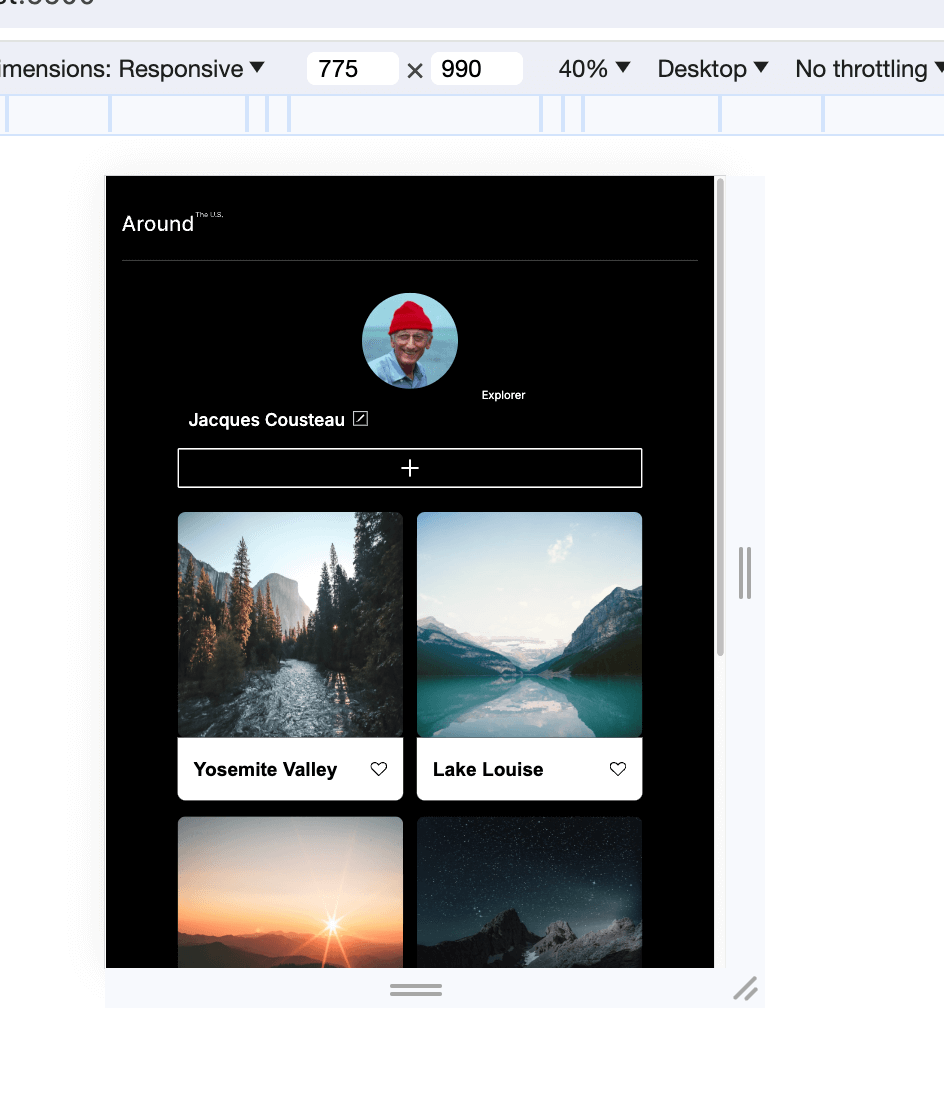
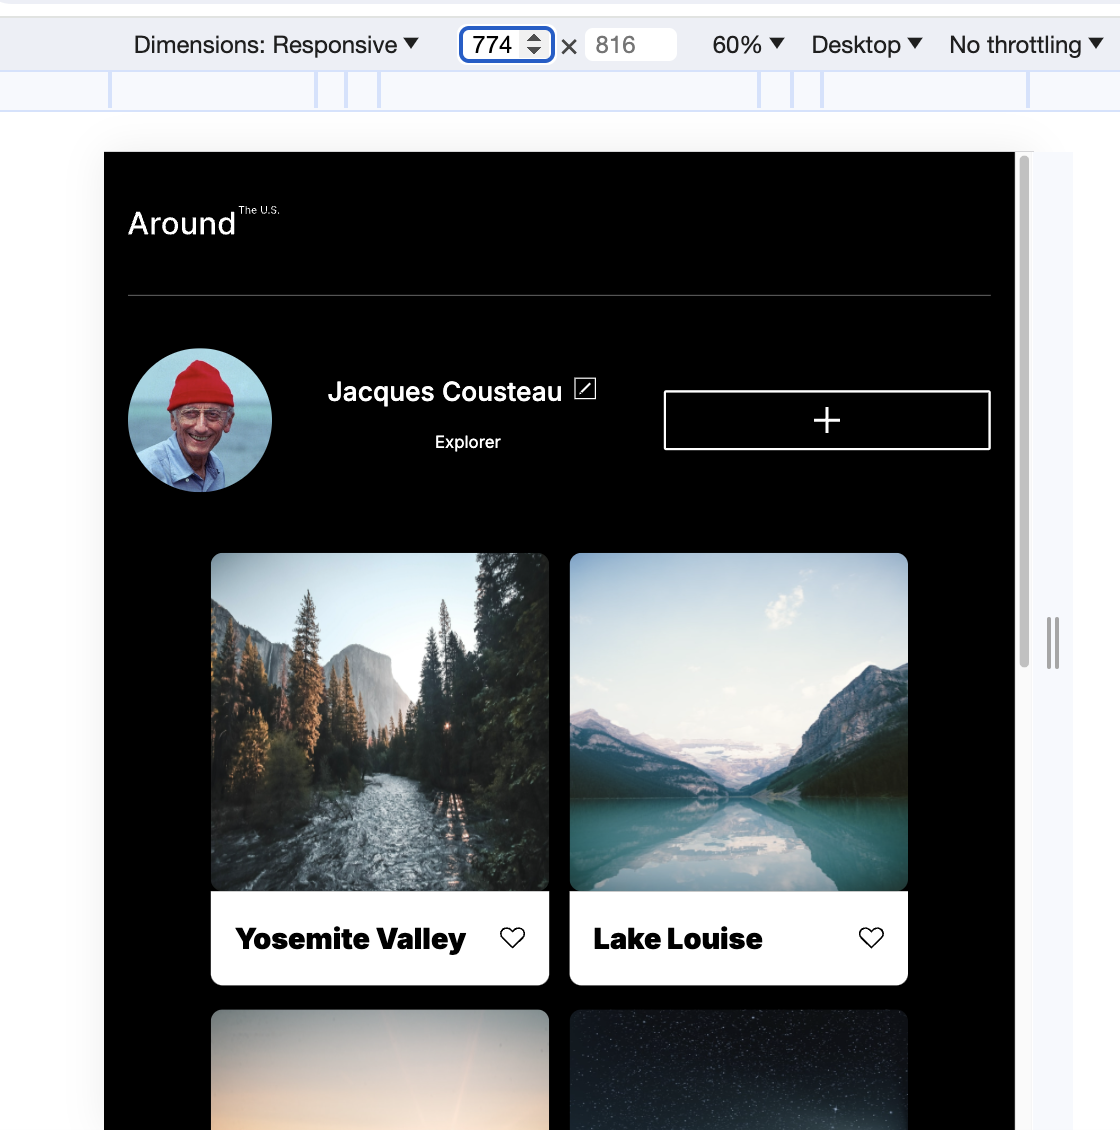
23.01.2024

diff --git a/blocks/profile.css b/blocks/profile.css
@@ -72,9 +72,9 @@
 }
 
 @media screen and (max-width: 775px) {
-  .profile {
+  /*.profile {
     flex-direction: column;
-  }
+  }*/
 
   .profile__info {
     display: flex;
@@ -116,6 +116,10 @@
 }
 
 @media screen and (max-width: 635px) {
+  .profile {
+    flex-direction: column;
+  }
+
   .profile__add-button {
     max-width: 282px;
   }

diff --git a/blocks/card.css b/blocks/card.css
@@ -30,6 +30,11 @@
   border: none;
 }
 
+.card__like-button:hover {
+  opacity: 60%;
+  cursor: pointer;
+}
+
 .card__title {
   max-width: 220px;
   font-size: 24px;
